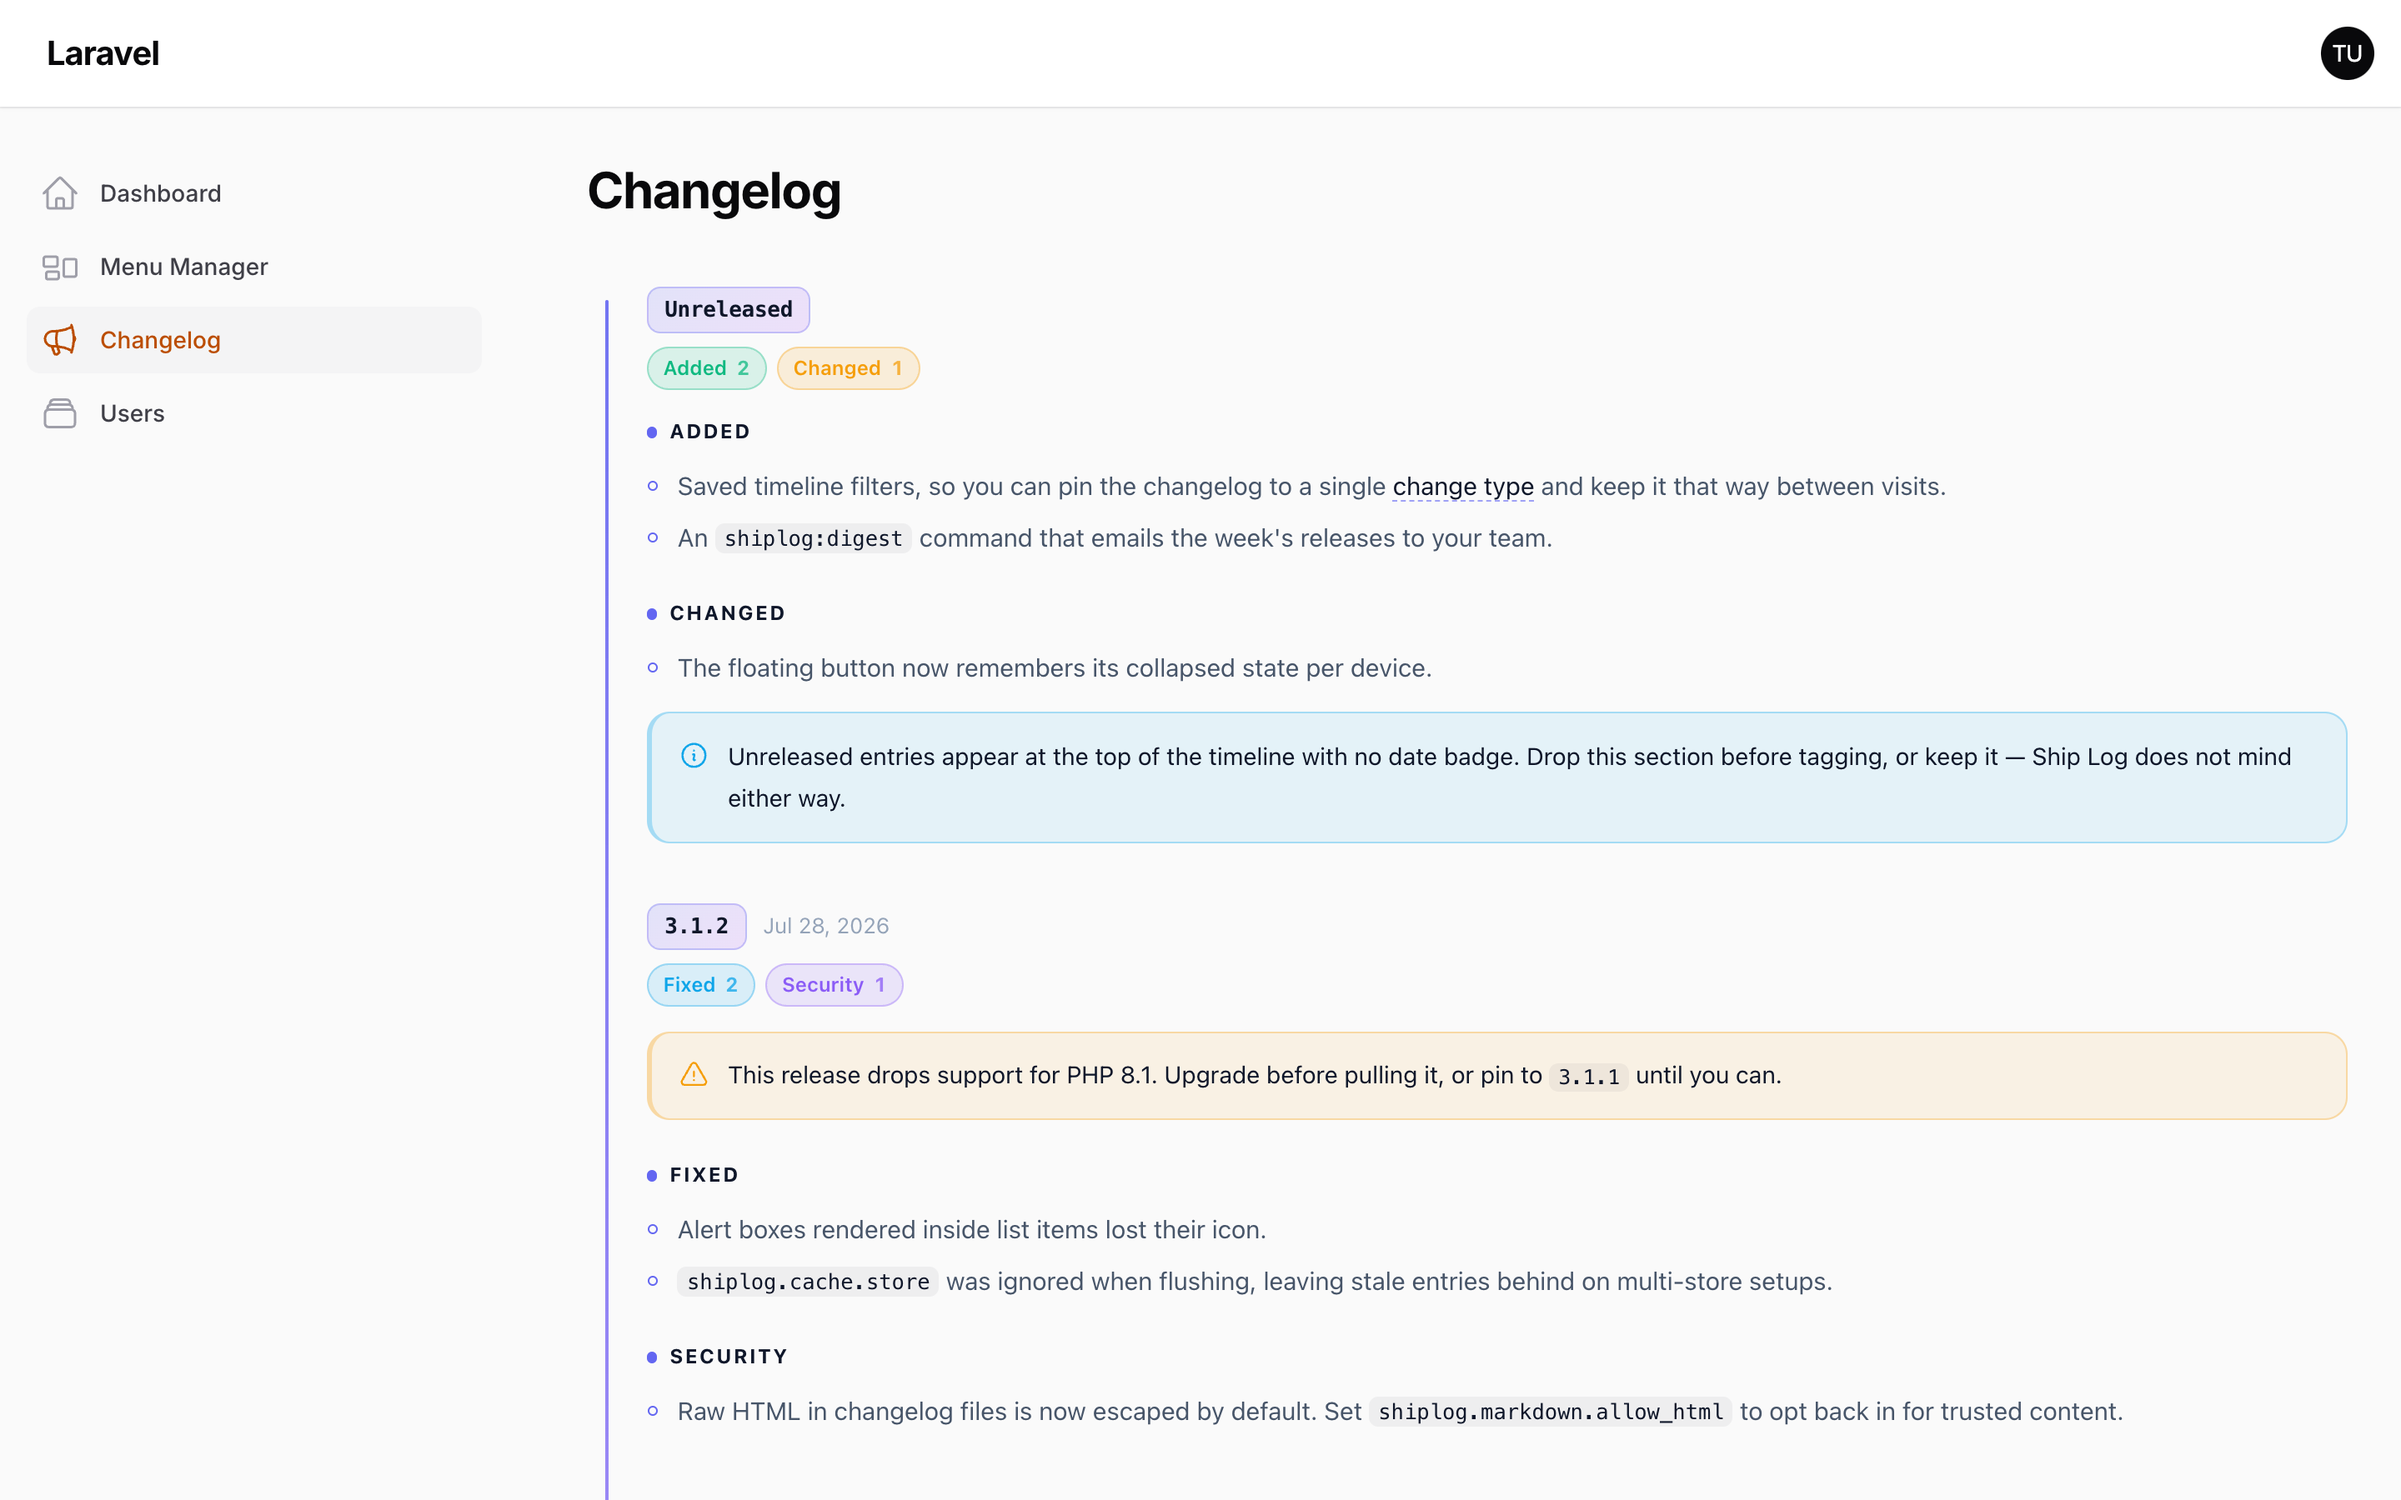
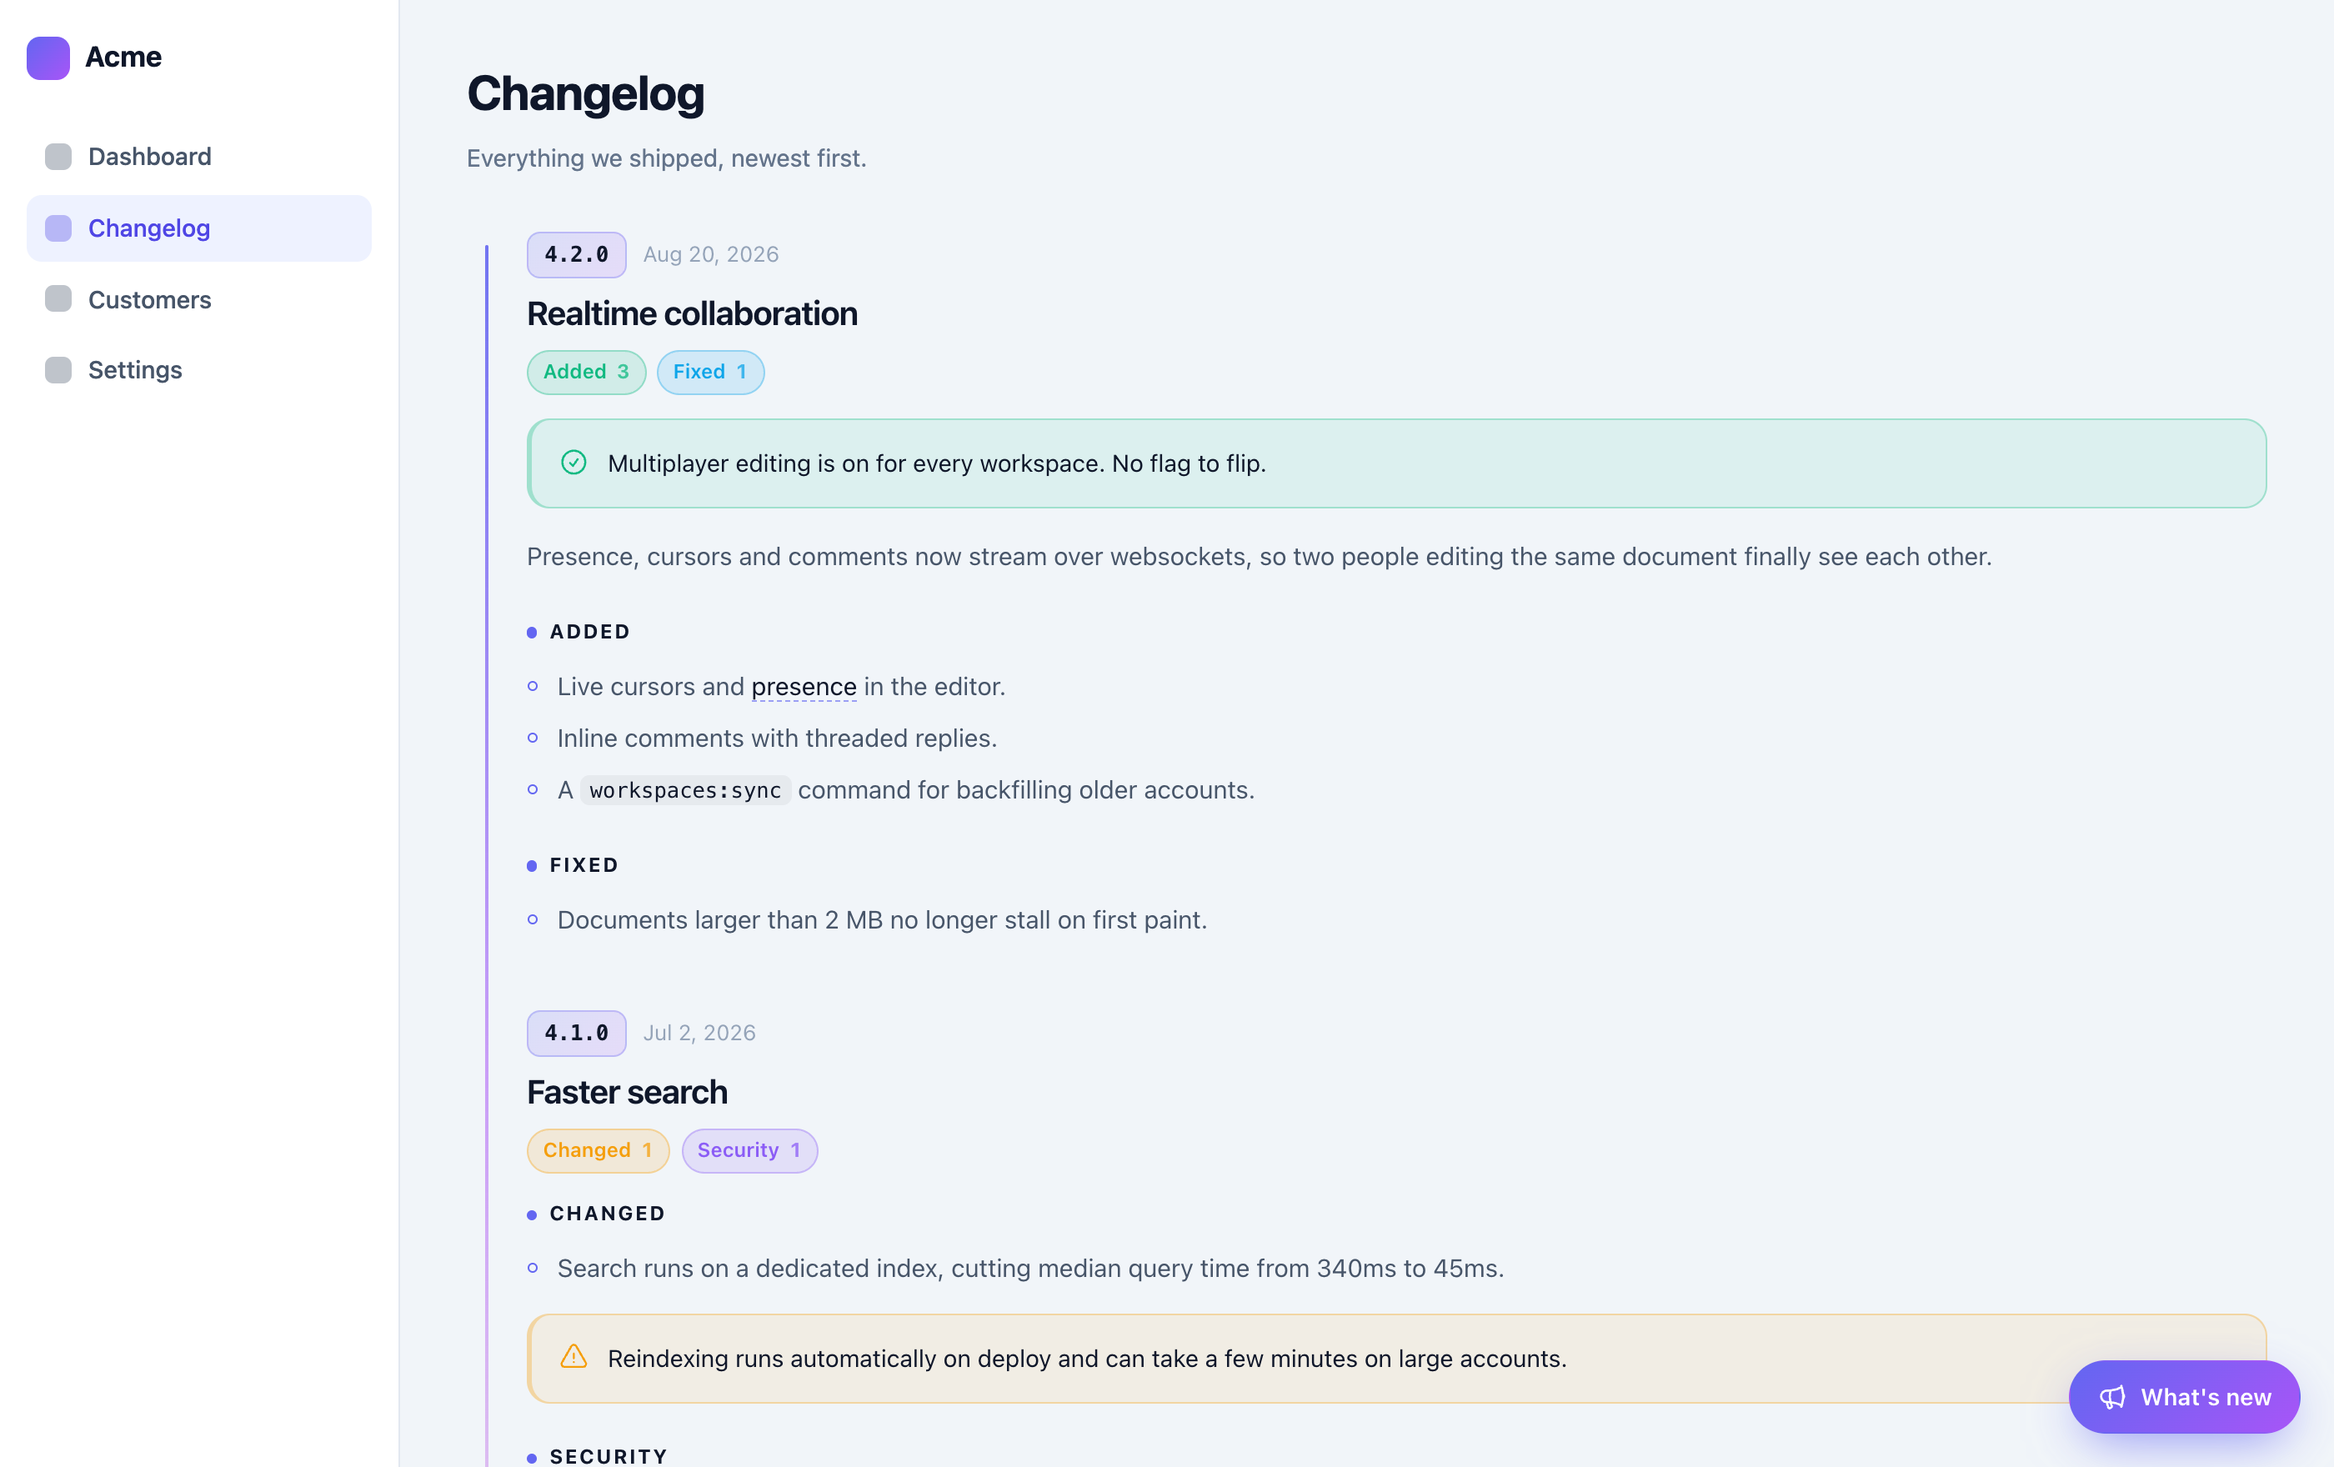
docs: replace screenshots with rendered demo art

diff --git a/README.md b/README.md
@@ -40,6 +40,10 @@ The timeline is one component rendered two ways.
 
 ![Timeline sheet](art/timeline.png)
 
+It follows the host page's theme automatically:
+
+![Timeline in dark mode](art/timeline-dark.png)
+
 Both surfaces render the same `<ship-log>` element and read the same feed, so
 they can never drift apart.
 
